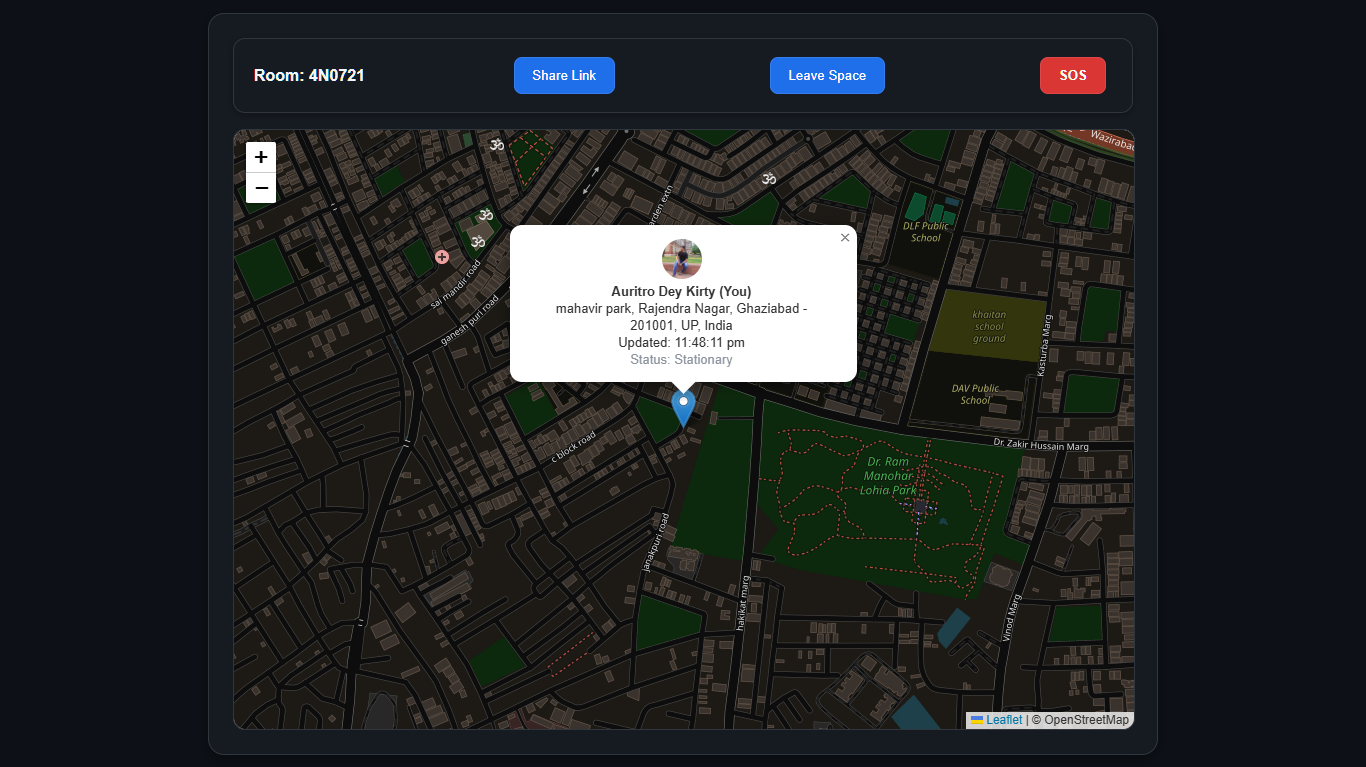
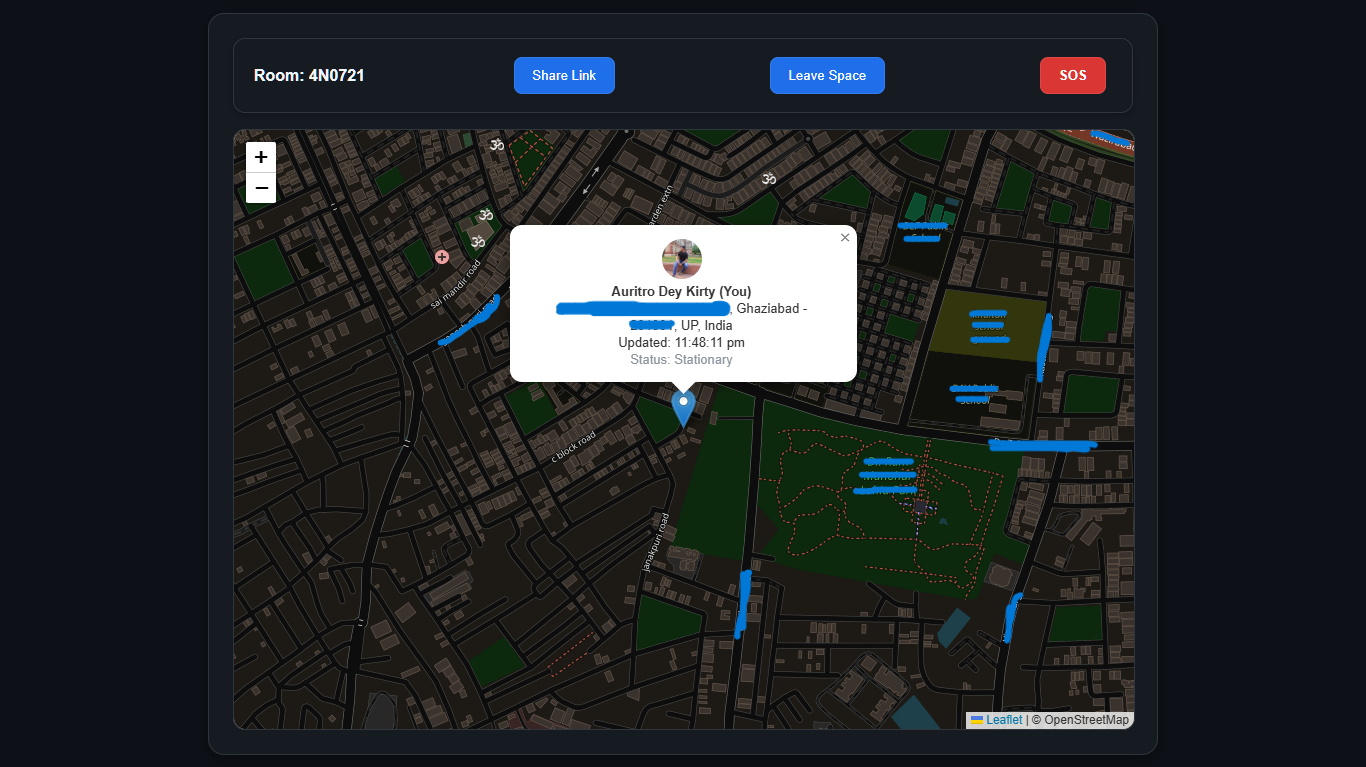
Added Google Analytics

diff --git a/index.html b/index.html
@@ -1,53 +1,66 @@
 <!DOCTYPE html>
 <html lang="en">
-<head>
-    <meta charset="UTF-8">
-    <meta name="viewport" content="width=device-width, initial-scale=1.0">
-    <link rel="shortcut icon" href="./assets/icons8-location-pin-32.png" type="image/x-icon">
-    <title>Live Tracker</title>
-    <link rel="stylesheet" href="style.css">
-    <link rel="stylesheet" href="https://unpkg.com/leaflet@1.9.4/dist/leaflet.css"
-    integrity="sha256-p4NxAoJBhIIN+hmNHrzRCf9tD/miZyoHS5obTRR9BMY="
-    crossorigin=""/>
-    <script src="https://unpkg.com/leaflet@1.9.4/dist/leaflet.js"
-    integrity="sha256-20nQCchB9co0qIjJZRGuk2/Z9VM+kNiyxNV1lvTlZBo="
-    crossorigin=""></script>
-</head>
-<body>
-    <div id="login" class="section">
-        <h1>Live Location Tracker</h1>
-        <button id="loginBtn">Login with Google</button>
-    </div>
+    <head>
+        <meta charset="UTF-8">
+        <meta name="viewport" content="width=device-width, initial-scale=1.0">
+        <link rel="shortcut icon" href="./assets/icons8-location-pin-32.png"
+            type="image/x-icon">
+        <title>Live Tracker</title>
+        <link rel="stylesheet" href="style.css">
+        <link rel="stylesheet"
+            href="https://unpkg.com/leaflet@1.9.4/dist/leaflet.css"
+            integrity="sha256-p4NxAoJBhIIN+hmNHrzRCf9tD/miZyoHS5obTRR9BMY="
+            crossorigin />
+        <script src="https://unpkg.com/leaflet@1.9.4/dist/leaflet.js"
+            integrity="sha256-20nQCchB9co0qIjJZRGuk2/Z9VM+kNiyxNV1lvTlZBo="
+            crossorigin></script>
+        <script async
+            src="https://www.googletagmanager.com/gtag/js?id=G-P79VTY5WCD"></script>
+        <script>
+  window.dataLayer = window.dataLayer || [];
+  function gtag(){dataLayer.push(arguments);}
+  gtag('js', new Date());
 
-    <div id="dashboard" class="section hidden">
-        <div class="user">
-            <img id="userPic" src="" alt="Profile" referrerpolicy="no-referrer">
-            <h2 id="userName">User Name</h2>
-        </div>
-        <button id="logoutBtn">Logout</button>
-        
-        <hr>
-        
-        <div class="actions">
-            <h3>Create a Space</h3>
-            <button id="createSpaceBtn">Create Space</button>
-            
-            <h3>Or Join a Space</h3>
-            <input type="text" id="roomInput" placeholder="Enter Room Key">
-            <button id="joinSpaceBtn">Join Space</button>
-        </div>
-    </div>
+  gtag('config', 'G-P79VTY5WCD');
 
-    <div id="mapContainer" class="section hidden">
-        <div class="header">
-            <span id="roomDisplay">Room: </span>
-            <button id="shareLinkBtn">Share Link</button>
-            <button id="leaveRoomBtn">Leave Space</button>
-            <button id="sosBtn">SOS</button>
+</script>
+    </head>
+    <body>
+        <div id="login" class="section">
+            <h1>Live Location Tracker</h1>
+            <button id="loginBtn">Login with Google</button>
         </div>
-        <div id="map"></div>
-    </div>
 
-    <script type="module" src="script.js"></script>
-</body>
+        <div id="dashboard" class="section hidden">
+            <div class="user">
+                <img id="userPic" src alt="Profile"
+                    referrerpolicy="no-referrer">
+                <h2 id="userName">User Name</h2>
+            </div>
+            <button id="logoutBtn">Logout</button>
+
+            <hr>
+
+            <div class="actions">
+                <h3>Create a Space</h3>
+                <button id="createSpaceBtn">Create Space</button>
+
+                <h3>Or Join a Space</h3>
+                <input type="text" id="roomInput" placeholder="Enter Room Key">
+                <button id="joinSpaceBtn">Join Space</button>
+            </div>
+        </div>
+
+        <div id="mapContainer" class="section hidden">
+            <div class="header">
+                <span id="roomDisplay">Room: </span>
+                <button id="shareLinkBtn">Share Link</button>
+                <button id="leaveRoomBtn">Leave Space</button>
+                <button id="sosBtn">SOS</button>
+            </div>
+            <div id="map"></div>
+        </div>
+
+        <script type="module" src="script.js"></script>
+    </body>
 </html>

diff --git a/src/controllers/functionality.js b/src/controllers/functionality.js
@@ -67,6 +67,7 @@ function generateRoomCode() {
 }
 
 createSpaceBtn.addEventListener("click", async function () {
+    gtag('event', 'create_room');
   try {
     const roomId = generateRoomCode();
     await setDoc(doc(db, "rooms", roomId), {
@@ -81,6 +82,7 @@ createSpaceBtn.addEventListener("click", async function () {
 });
 
 joinSpaceBtn.addEventListener("click", async () => {
+  gtag('event', 'join_room');
   const roomId = roomInput.value.trim().toUpperCase();
   if (roomId.length == 0) {
     alert("Please enter a room key");
@@ -160,8 +162,13 @@ function startLocationTracking() {
     alert("Geolocation not available in this browser");
     return;
   }
+  let permissionGranted =false
   watchId = navigator.geolocation.watchPosition(
     async function (position) {
+      if(!permissionGranted){
+        gtag('event', 'location_permission_granted');
+        permissionGranted = true
+      }
       let latitude = position.coords.latitude;
       let longitude = position.coords.longitude;
       if (!hasZoomedIn && map) {
@@ -290,6 +297,7 @@ window.addEventListener("beforeunload", () => {
 
 if (shareLinkBtn) {
   shareLinkBtn.addEventListener("click", () => {
+  gtag('event', 'share_room_link');
     if (currentRoom) {
       const link = `${window.location.origin}${window.location.pathname}?room=${currentRoom}`;
       navigator.clipboard.writeText(link);
